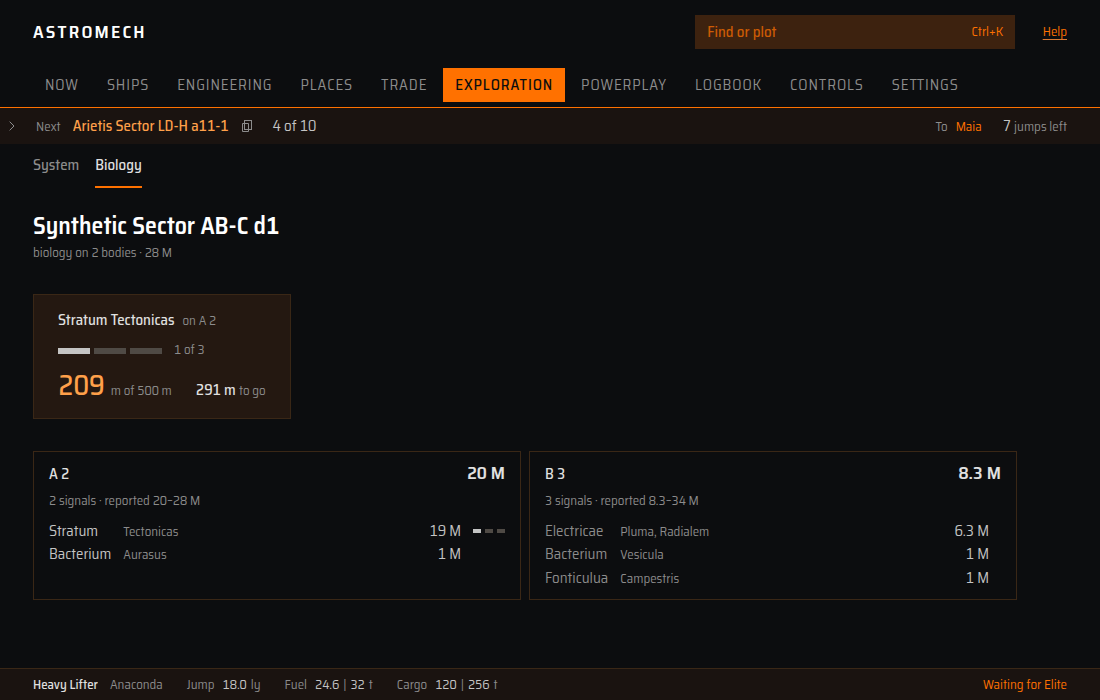
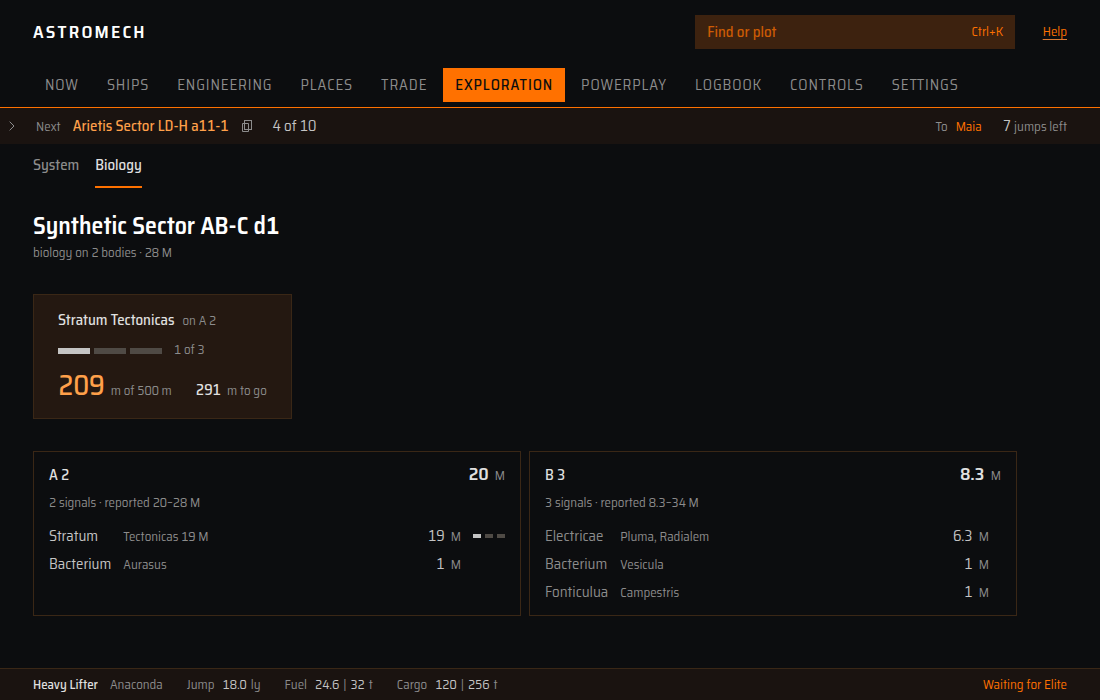
Biology: reported species find their genus by name, keep their reported value, and units draw as units
A reported 'Roseum Brain Tree' went under an invented 'Roseum' genus,
and a reported species the commander already listed lost its value.

diff --git a/app/src/modules/exobiology/View.svelte b/app/src/modules/exobiology/View.svelte
@@ -13,7 +13,7 @@
   import Board from "../../lib/ui/layout/Board.svelte";
   import Tiles from "../../lib/ui/layout/Tiles.svelte";
   import Samples from "../../lib/ui/Samples.svelte";
-  import { bodyCards, loadBiology, millions, shortName, valueRange, type BiologyView, type CardGenus } from "../../lib/exobiology";
+  import { bodyCards, loadBiology, millions, ofGenus, shortName, valueRange, type BiologyView, type CardGenus } from "../../lib/exobiology";
 
   let v = $state<BiologyView | null>(null);
   let failed = $state<string | null>(null);
@@ -48,8 +48,17 @@
     return g.analysed ? 3 : null;
   }
 
-  /** The species a genus could be, without the genus's name ("Tectonicas"). */
-  const speciesName = (genus: string, species: string) => (species.startsWith(`${genus} `) ? species.slice(genus.length + 1) : species);
+  /** The species a genus could be, without the genus's name: "Tectonicas", "Roseum" (Brain Tree). */
+  function speciesName(genus: string, species: string): string {
+    if (species === genus || !ofGenus(species, genus)) return species;
+    return species.startsWith(`${genus} `) ? species.slice(genus.length + 1) : species.slice(0, -genus.length - 1);
+  }
+
+  /** "1.4–19 M" as its figure and its unit, so the unit can be drawn as one. */
+  const parts = (r: [number, number]) => {
+    const t = valueRange(r);
+    return [t.replace(/ M$/, ""), "M"] as const;
+  };
 
   /** What a genus's name means, in its Tip; none for one the commander knows and nobody else reported. */
   function genusTip(g: CardGenus) {
@@ -101,7 +110,7 @@
               {#if c.far_enough}
                 <span class="type-name go">Far enough</span>
               {:else}
-                <span><span class="type-name">{Math.max(0, Math.ceil(c.colony_range_m - c.nearest_m))} m</span> <span class="type-label">to go</span></span>
+                <span><span class="type-name">{Math.max(0, Math.ceil(c.colony_range_m - c.nearest_m))}</span> <span class="type-unit">m to go</span></span>
               {/if}
             </p>
           {:else if sampling.colony_range_m !== null}
@@ -110,6 +119,9 @@
         </section>
       {/if}
 
+      {#if !v.bodies.length}
+        <p class="type-label">No biological signals found in this system yet. The FSS shows them.</p>
+      {/if}
       {#if cards.length}
         <Tiles wide list label="Bodies with biology">
           {#each cards as card, i (card.name)}
@@ -119,7 +131,7 @@
                   <span class="type-name">{short(card.name)}</span>
                   {#if card.reported}<Badge {@attach tip(REPORTED)}>Reported</Badge>{/if}
                 </span>
-                <span class="type-value-l" class:main={i === 0 && !distanceLeads} {@attach tip(VALUE)}>{valueRange(card.value)}</span>
+                <span {@attach tip(VALUE)}><span class="type-value-l" class:main={i === 0 && !distanceLeads}>{parts(card.value)[0]}</span> <span class="type-unit">{parts(card.value)[1]}</span></span>
               </div>
               <p class="type-label">
                 {card.signals === null ? "Signals not known" : plural(card.signals, "signal", "signals")}
@@ -130,7 +142,7 @@
                   {#each card.genera as g (g.genus)}
                     {@const n = taken(card.body_id, g)}
                     <li>
-                      <span class="type-figures genus" class:known={g.known && !g.reported} {@attach tip(genusTip(g))}>{g.genus}</span>
+                      <span class="genus {g.reported ? 'type-label' : 'type-figures'}" class:known={g.known && !g.reported} {@attach tip(genusTip(g))}>{g.genus}</span>
                       <span class="species type-label">
                         {#each g.species as s, j (s.name)}
                           {@const sep = j < g.species.length - 1 ? ", " : ""}
@@ -141,7 +153,7 @@
                           {/if}
                         {/each}
                       </span>
-                      <span class="type-figures worth">{g.value ? valueRange(g.value) : ""}</span>
+                      <span class="worth">{#if g.value}{@const [fig, unit] = parts(g.value)}<span class="type-figures">{fig}</span> <span class="type-unit">{unit}</span>{/if}</span>
                       <span class="marks">{#if n !== null}<Samples count={n} small />{/if}</span>
                     </li>
                   {/each}
@@ -152,8 +164,6 @@
             </article>
           {/each}
         </Tiles>
-      {:else}
-        <p class="type-label">No biological signals found in this system yet. The FSS shows them.</p>
       {/if}
     {/if}
   </div>

diff --git a/app/src/lib/exobiology.ts b/app/src/lib/exobiology.ts
@@ -40,7 +40,7 @@ export function shortName(body: string, system: string | null): string {
   return body;
 }
 
-/** A species on a card: its name and, when a report or a sample gives it, its value. */
+/** A species on a card: its name, its value, and whether other players reported it there. */
 export type CardSpecies = { name: string; value: number | null; reported: boolean };
 
 /** A genus on a body card. */
@@ -79,17 +79,23 @@ type Known = import("./api/types/KnownView").KnownView;
 /** The same body: by id when both have one, else by full name. A null id never matches another. */
 const same = (b: Body, k: Known) => (b.body_id !== null && k.body_id !== null ? b.body_id === k.body_id : b.name === k.name);
 
-/** The genus of a reported species: its first word ("Stratum Tectonicas" is a Stratum). */
-const genusOf = (species: string) => species.split(" ")[0] ?? species;
+/**
+ * Whether a species is of a genus: "Stratum Tectonicas" is a Stratum, "Roseum Brain Tree" a Brain
+ * Tree, "Amphora Plant" an Amphora Plant (the catalogue names some species after their genus).
+ */
+export const ofGenus = (species: string, genus: string) => species === genus || species.startsWith(`${genus} `) || species.endsWith(` ${genus}`);
+
+/** A reported species' genus, from the names the body lists (the core lists every species' genus). */
+const genusOf = (species: string, genera: string[]) => genera.find((g) => ofGenus(species, g)) ?? species.split(" ")[0] ?? species;
 
 const span = (vs: number[]): [number, number] | null => (vs.length ? [Math.min(...vs), Math.max(...vs)] : null);
 
 /** A reported body's genera, each with the species reported for it. */
 function reportedGenera(k: Known): CardGenus[] {
   const names = [...k.genera];
-  for (const s of k.species) if (!names.includes(genusOf(s.name))) names.push(genusOf(s.name));
+  for (const s of k.species) if (!names.includes(genusOf(s.name, names))) names.push(genusOf(s.name, names));
   return names.map((genus) => {
-    const species = k.species.filter((s) => genusOf(s.name) === genus).map((s) => ({ name: s.name, value: s.value, reported: true }));
+    const species = k.species.filter((s) => genusOf(s.name, names) === genus).map((s) => ({ name: s.name, value: s.value, reported: true }));
     return { genus, known: true, reported: true, others: true, species, value: span(species.map((s) => s.value!)), analysed: false };
   });
 }
@@ -123,7 +129,13 @@ export function bodyCards(bodies: Body[], known: Known[] | null): BodyCard[] {
           continue;
         }
         g.others = true;
-        for (const s of r.species) if (!g.species.some((x) => x.name === s.name)) g.species.push(s);
+        for (const s of r.species) {
+          const mine = g.species.find((x) => x.name === s.name);
+          if (mine) {
+            mine.reported = true;
+            mine.value = s.value;
+          } else g.species.push(s);
+        }
       }
     }
     const differs = k && (k.value[0] !== b.value[0] || k.value[1] !== b.value[1]);

diff --git a/app/src/lib/exobiology.test.ts b/app/src/lib/exobiology.test.ts
@@ -77,10 +77,24 @@ describe("bodyCards", () => {
       ],
     },
     {
-      case: "a report that says what the commander has: nothing added, the same range not repeated",
+      case: "a report that says what the commander has: the species marked reported, the same range not repeated",
       bodies: [A2],
       known: [report("S A 2", 5, ["Stratum"], [["Stratum Tectonicas", 19_010_800]], [19_010_800, 19_010_800])],
-      cards: [{ name: "S A 2", reported: false, value: [19_010_800, 19_010_800], reported_value: null, genera: ["Stratum (also reported): Stratum Tectonicas"] }],
+      cards: [{ name: "S A 2", reported: false, value: [19_010_800, 19_010_800], reported_value: null, genera: ["Stratum (also reported): Stratum Tectonicas*"] }],
+    },
+    {
+      case: "a reported species among the commander's predicted candidates keeps its reported value",
+      bodies: [body("S B 3", 7, [genus("Electricae", [["Electricae Pluma", 6_284_600], ["Electricae Radialem", 6_284_600]], false)], [6_284_600, 6_284_600])],
+      known: [report("S B 3", 7, ["Electricae"], [["Electricae Radialem", 6_284_600]], [6_284_600, 6_284_600])],
+      cards: [{ name: "S B 3", reported: false, value: [6_284_600, 6_284_600], reported_value: null, genera: ["Electricae (also reported): Electricae Pluma, Electricae Radialem*"] }],
+    },
+    {
+      case: "species named before their genus go under it (Roseum Brain Tree is a Brain Tree)",
+      bodies: [],
+      known: [report("S D 4", 11, ["Brain Tree", "Sinuous Tuber"], [["Roseum Brain Tree", 1_593_700], ["Roseum Sinuous Tuber", 1_514_500]], [3_108_200, 3_108_200])],
+      cards: [
+        { name: "S D 4", reported: true, value: [3_108_200, 3_108_200], reported_value: null, genera: ["Brain Tree (reported): Roseum Brain Tree*", "Sinuous Tuber (reported): Roseum Sinuous Tuber*"] },
+      ],
     },
     {
       case: "a body only others reported: its own card after the commander's",

diff --git a/.atelier/items/astromech-evj3/item.md b/.atelier/items/astromech-evj3/item.md
@@ -75,8 +75,13 @@ both cards sit side by side with room for a third.
   sampling complete, or no clearance yet).
 - `bodyCards` in `app/src/lib/exobiology.ts` merges `known` into the cards: by `body_id` when
   both have one, else by full name, and a null id never matches another null. On a commander's
-  card it adds a genus or species only others reported (Label, "Reported" Tip, a reported
-  species with its value), and their value range as "reported 20–28 M" when it differs. A body
+  card it adds a genus or species only others reported (in Label, with a "Reported" Tip). It
+  marks a species others reported that the commander already lists, so that species prints
+  its reported value as the old table did ("Tectonicas 19 M"). It also adds their value range
+  as "reported 20–28 M" when that differs from the commander's. A reported species finds its
+  genus among the body's genus names, not by its first word. The catalogue has Brain Tree,
+  Anemone and Sinuous Tuber species named before their genus ("Roseum Brain Tree"), and
+  Amphora Plant, Bark Mound and Crystalline Shard species that share their genus's name. A body
   only others reported gets its own card after the commander's, with a "Reported" badge. The
   attribution line "Spansh, from other players' EDDN reports" moved into the Reported Tip.
 - `app/src/lib/ui/Samples.svelte` draws the marks (DESIGN.md Meter: Prose Grey lit, Mark Off
@@ -87,8 +92,9 @@ both cards sit side by side with room for a third.
 - `docs/guide/exploration.md`'s Biology section describes the cards and the sampling block.
 
 **Tests.** `exobiology.test.ts` is the table test for `bodyCards`: `known` null and empty, a
-report that adds a genus, a species and a range, a report that adds nothing, a body only others
-reported, no commander bodies, and null ids. The recorded fixture has no reported-only body or
+report that adds a genus, a species and a range, a report of what the commander already has,
+a reported species among the commander's predicted candidates, species named before their
+genus, a body only others reported, no commander bodies, and null ids. The recorded fixture has no reported-only body or
 genus, so the table test is the only place those show. `View.browser.test.ts` keeps its four
 cases on the new markup. The first reads the cards and checks the predicted genus's Tip in place
 of the old "From the DSS" / "Predicted from the scan" line. The sampling case reads the block
@@ -109,7 +115,11 @@ working tree just before the commit, so its `commit` field is the parent.
   orange in the list is the frame's (Help, Ctrl+K, Waiting for Elite).
 - Not captured: the no-sampling state, where the first card's range is the main value, and an
   empty system. The recorded fixture is always sampling, and `?core=empty` answers this call with
-  an error. I did not hand-edit the recorded fixture.
+  an error. I did not hand-edit the recorded fixture or add a preview switch that invents a reply.
+- With no bodies of the commander's, the page keeps today's "No biological signals found in this
+  system yet. The FSS shows them.", with any reported-only cards under it.
+- Units are drawn as units (Label, Label Grey): "20 M" on a card, "19 M" on a genus line and
+  "291 m to go" keep their figure in the value's role and the unit after it.
 
 **Other changes.**
 
@@ -119,5 +129,5 @@ working tree just before the commit, so its `commit` field is the parent.
 - The journeys ran with `ASTROMECH_CORE` pointed at the main checkout's debug core. This
   worktree has no core build, and the item changes no core code.
 
-**Checks.** `pnpm check`, `pnpm lint` and `pnpm test` pass (899 tests). The journeys pass
-(7 of 7).
+**Checks.** `pnpm check`, `pnpm lint` and `pnpm test` pass in one full run (901 tests). The
+journeys pass (7 of 7). The audit was retaken after the last markup change.
